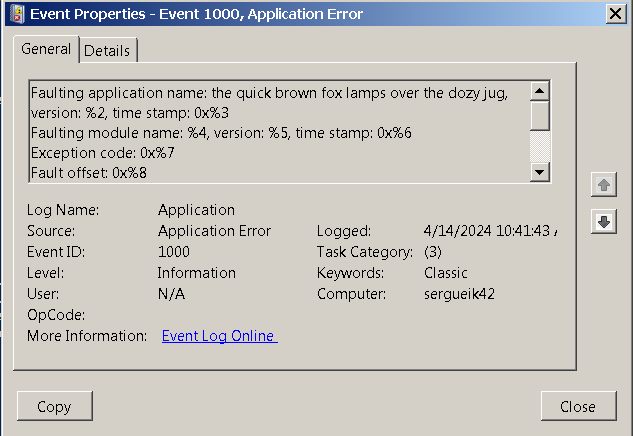
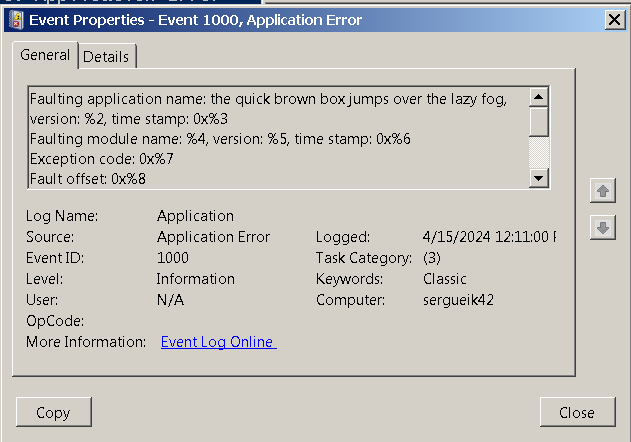
intermediate revision - updated README providing exact commandline arguments to target "Application" "Application Error" Event Log that already exist on a generic system

Changed region(s): [[0.0, 0.0, 1.0, 1.0], [0.5119, 0.5069, 0.8732, 0.7156], [0.2409, 0.4771, 0.4216, 0.6858]]

diff --git a/basic-jna-eventlog/README.md b/basic-jna-eventlog/README.md
@@ -12,10 +12,10 @@ mvn clean package
 
 #### Log to Application Event Log:
 
-```sh
-java -jar target\example.jna_eventlog.jar -message "the quick brown fox lamps over the dozy jug"
+enter the command in non-elevated powershell console
+```powershell
+java -jar target\example.jna_eventlog.jar -message "the quick brown box jumps over the lazy fog" -id 1000 -resource "%SystemRoot%\System32\wer.dll" -application "Application" -source "Application Error" -name "EventLog"
 ```
-
 
 * review Event Log entries
 
@@ -28,10 +28,11 @@ get-eventlog -logname Application -source 'Application Error' -newest 1 |format-
 ```
 reveals
 ```text
-Index              : 100331
+Index              : 93993
 EntryType          : Information
 InstanceId         : 1000
-Message            : Faulting application name: the quick brown fox lamps over the dozy jug, version: %2, time stamp: 0x%3
+Message            : Faulting application name: the quick brown box jumps over
+                     the lazy fog, version: %2, time stamp: 0x%3
                      Faulting module name: %4, version: %5, time stamp: 0x%6
                      Exception code: 0x%7
                      Fault offset: 0x%8
@@ -42,14 +43,11 @@ Message            : Faulting application name: the quick brown fox lamps over t
                      Report Id: %13
 Category           : (3)
 CategoryNumber     : 3
-ReplacementStrings : {the quick brown fox lamps over the dozy jug}
+ReplacementStrings : {the quick brown box jumps over the lazy fog}
 Source             : Application Error
-TimeGenerated      : 4/14/2024 10:41:43 AM
-TimeWritten        : 4/14/2024 10:41:43 AM
+TimeGenerated      : 4/15/2024 12:11:00 PM
+TimeWritten        : 4/15/2024 12:11:00 PM
 UserName           :
-
-
-
 
 ```
 
@@ -58,10 +56,10 @@ alternatively (NOTE, due to lack of query conditon need to run the following ver
 wevtutil.exe query-events Application /rd:true /f:text /c:10
 ```
 ```text
-Event[2]:
+Event[0]:
   Log Name: Application
   Source: Application Error
-  Date: 2024-04-14T10:40:31.000
+  Date: 2024-04-15T12:11:00.000
   Event ID: 1000
   Task: N/A
   Level: Information
@@ -71,8 +69,7 @@ Event[2]:
   User Name: N/A
   Computer: sergueik42
   Description:
-Faulting application name: the quick brown fox lamps over the dozy jug, version:
- %2, time stamp: 0x%3
+Faulting application name: the quick brown box jumps over the lazy fog, version: %2, time stamp: 0x%3
 Faulting module name: %4, version: %5, time stamp: 0x%6
 Exception code: 0x%7
 Fault offset: 0x%8
@@ -81,7 +78,6 @@ Faulting application start time: 0x%10
 Faulting application path: %11
 Faulting module path: %12
 Report Id: %13
-
 ```
 
 #### Using Custom Event Log with Arbitrary id
